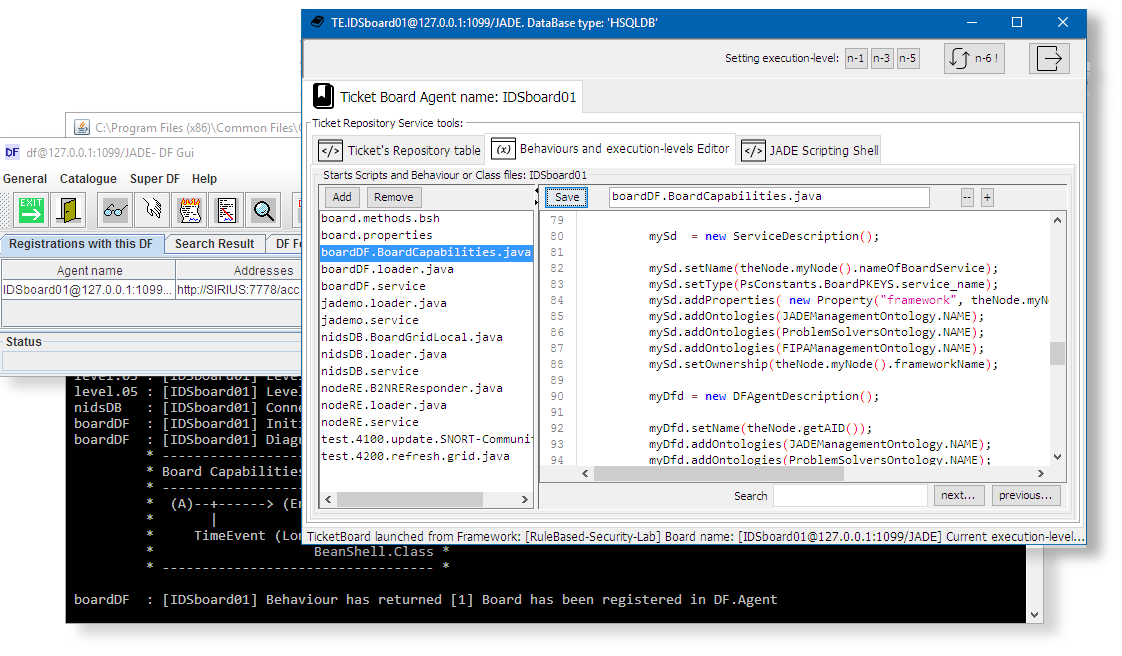
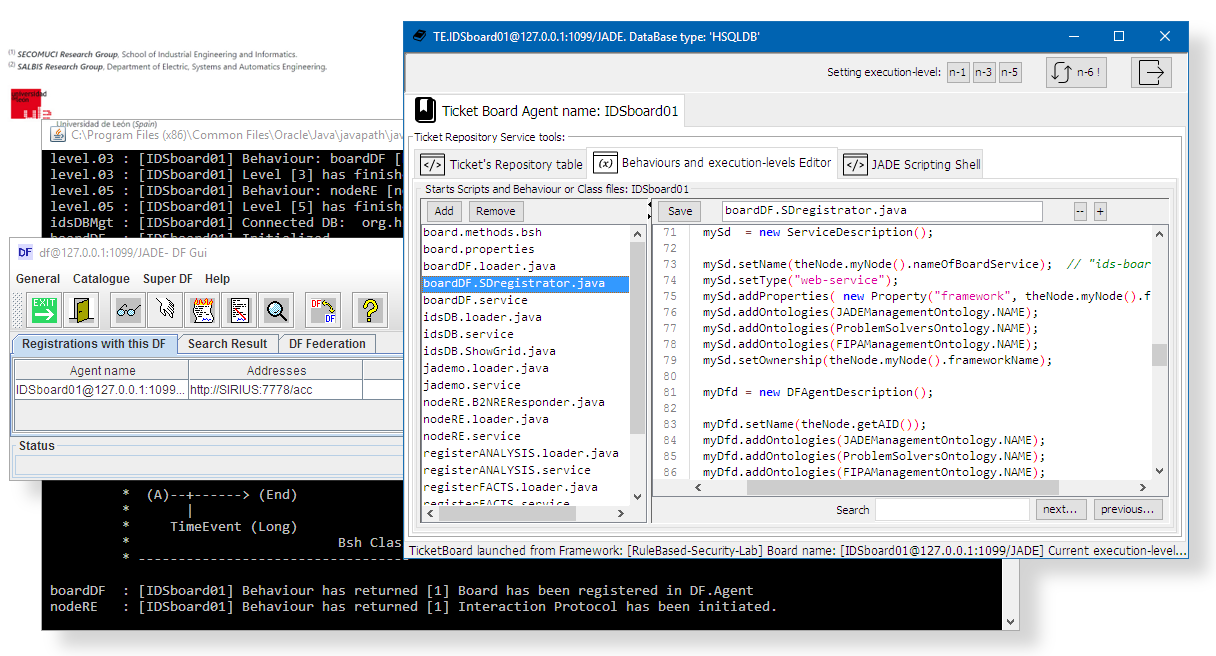
README & Images update

diff --git a/nodes/IDSboard01/config/boardDF.SDregistrator.java b/nodes/IDSboard01/config/boardDF.SDregistrator.java
@@ -70,8 +70,8 @@ public class SDregistrator extends WakerBehaviour {
 	    
 		mySd  = new ServiceDescription();
  		
- 		mySd.setName(theNode.myNode().nameOfBoardService);
- 		mySd.setType(theNode.myNode().nameOfBoardService);
+ 		mySd.setName(theNode.myNode().nameOfBoardService);  // "ids-board"
+ 		mySd.setType("web-service");
  		mySd.addProperties( new Property("framework", theNode.myNode().frameworkName));
  		mySd.addOntologies(JADEManagementOntology.NAME);
  		mySd.addOntologies(ProblemSolversOntology.NAME);
